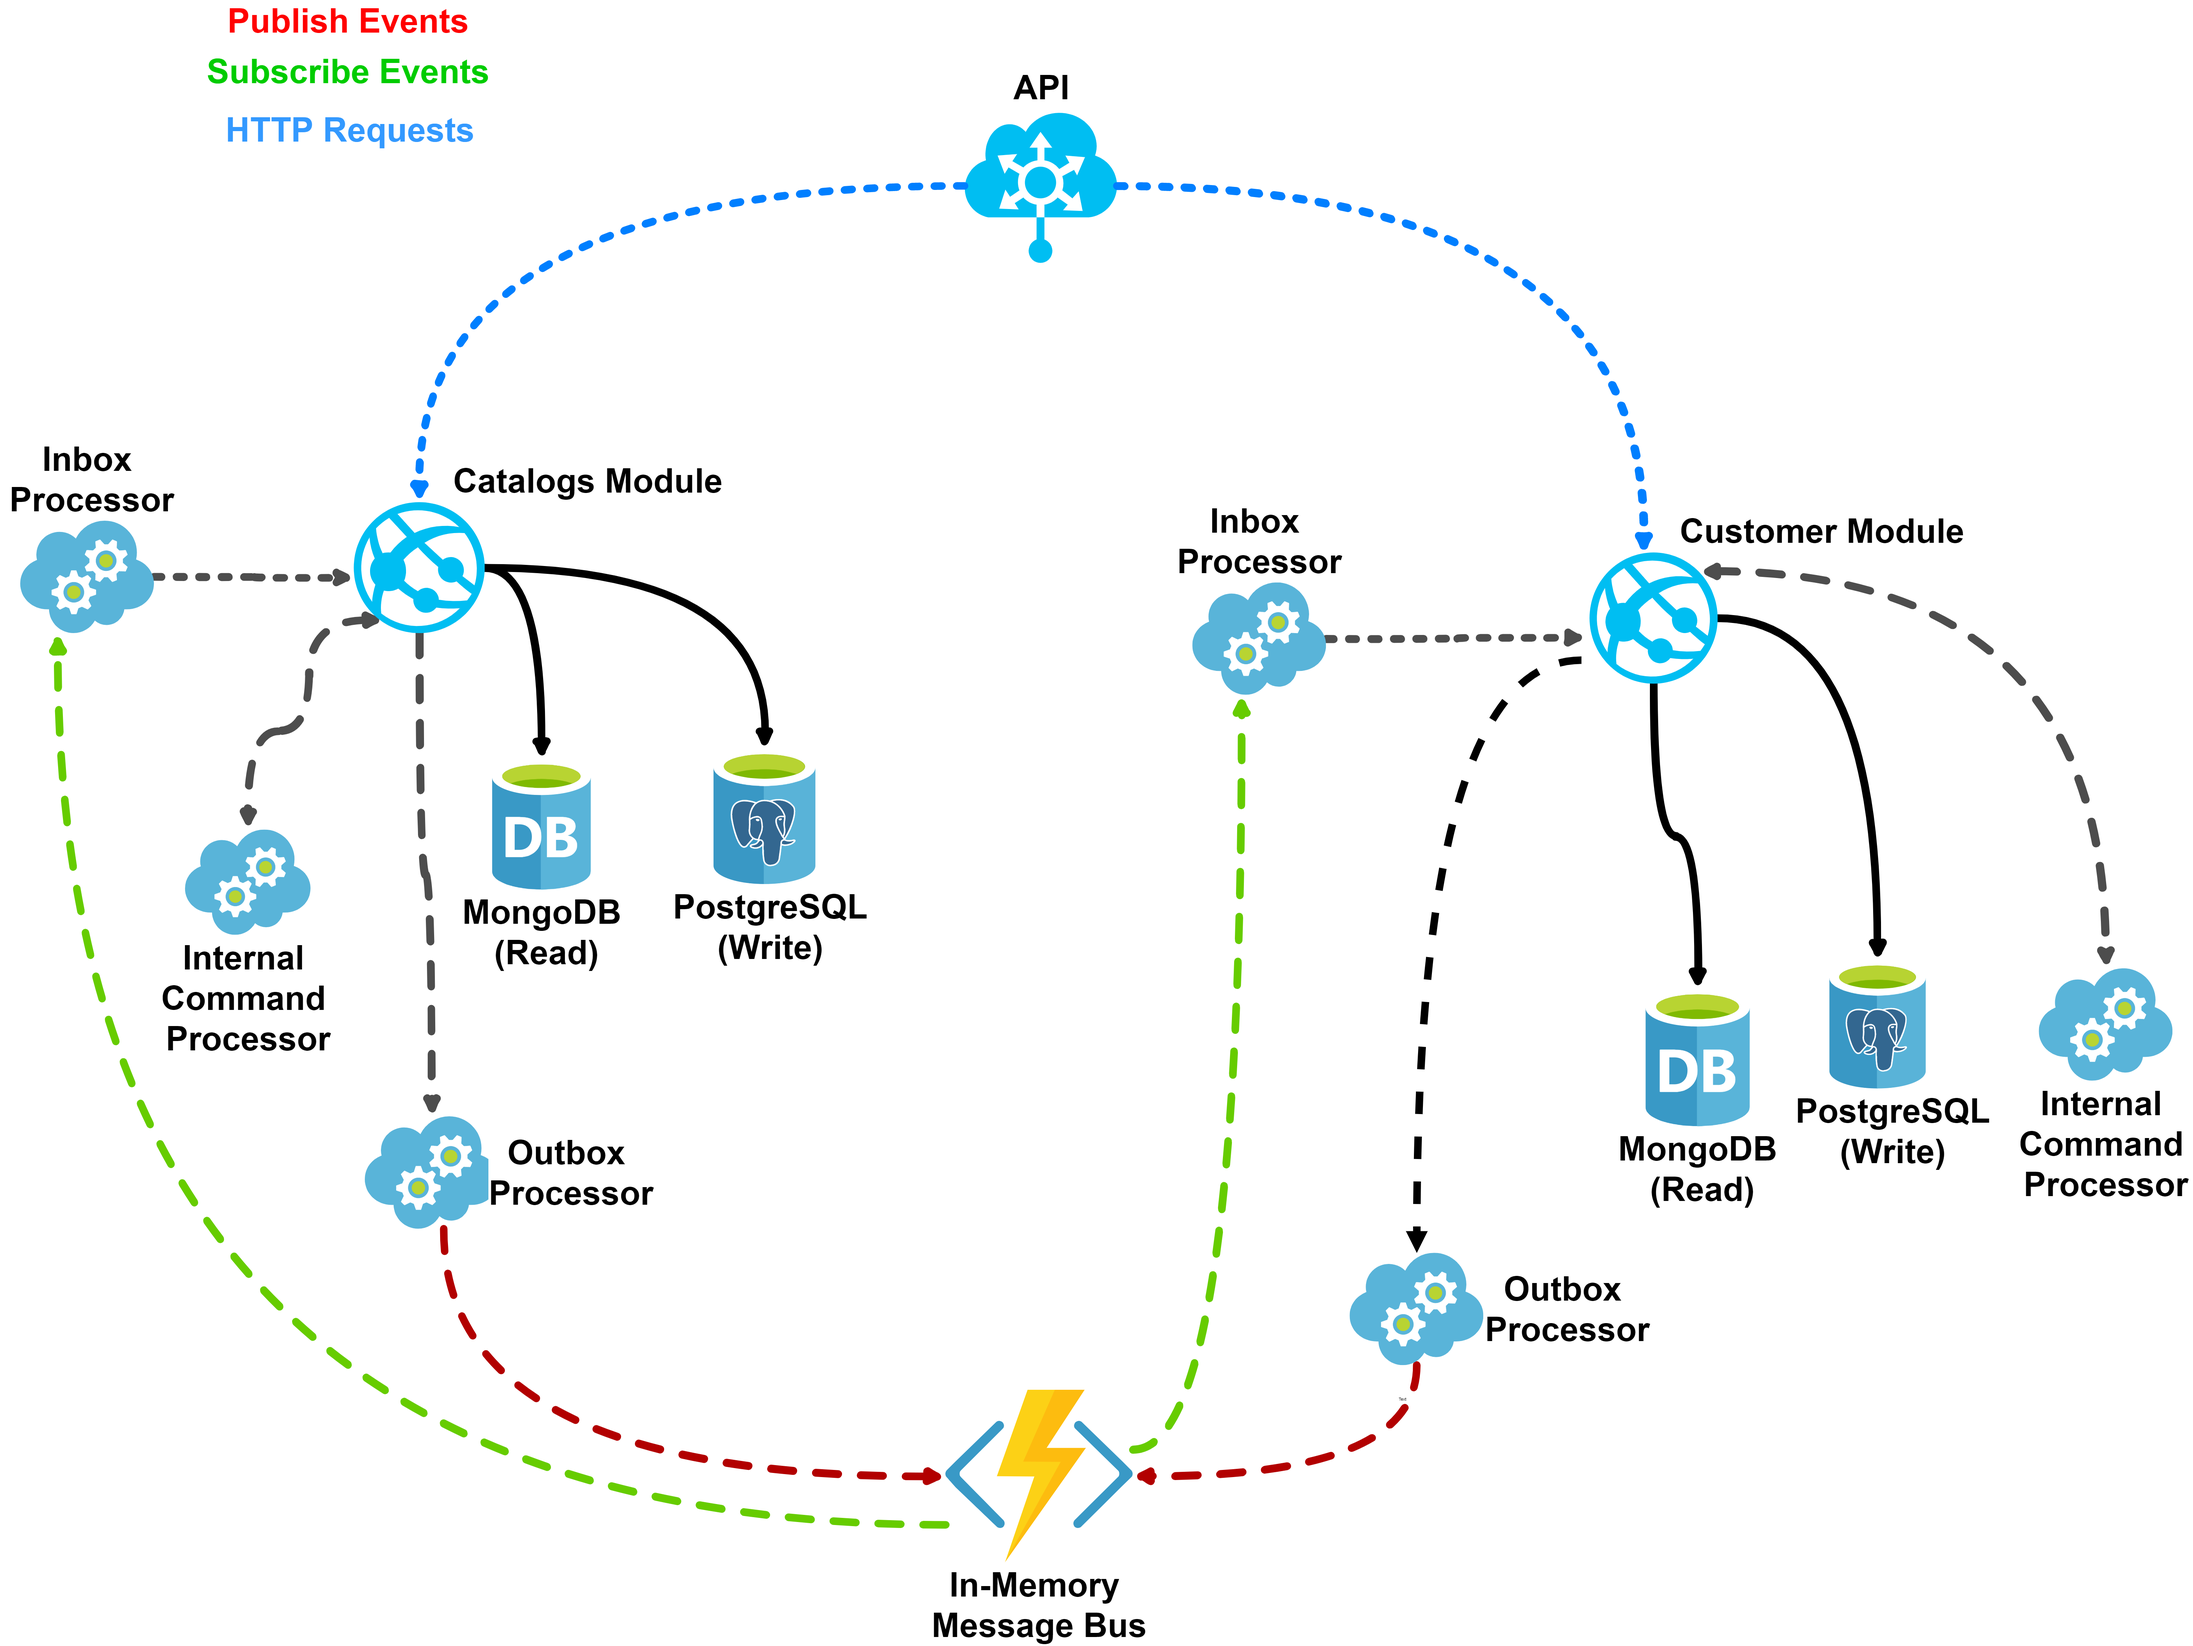
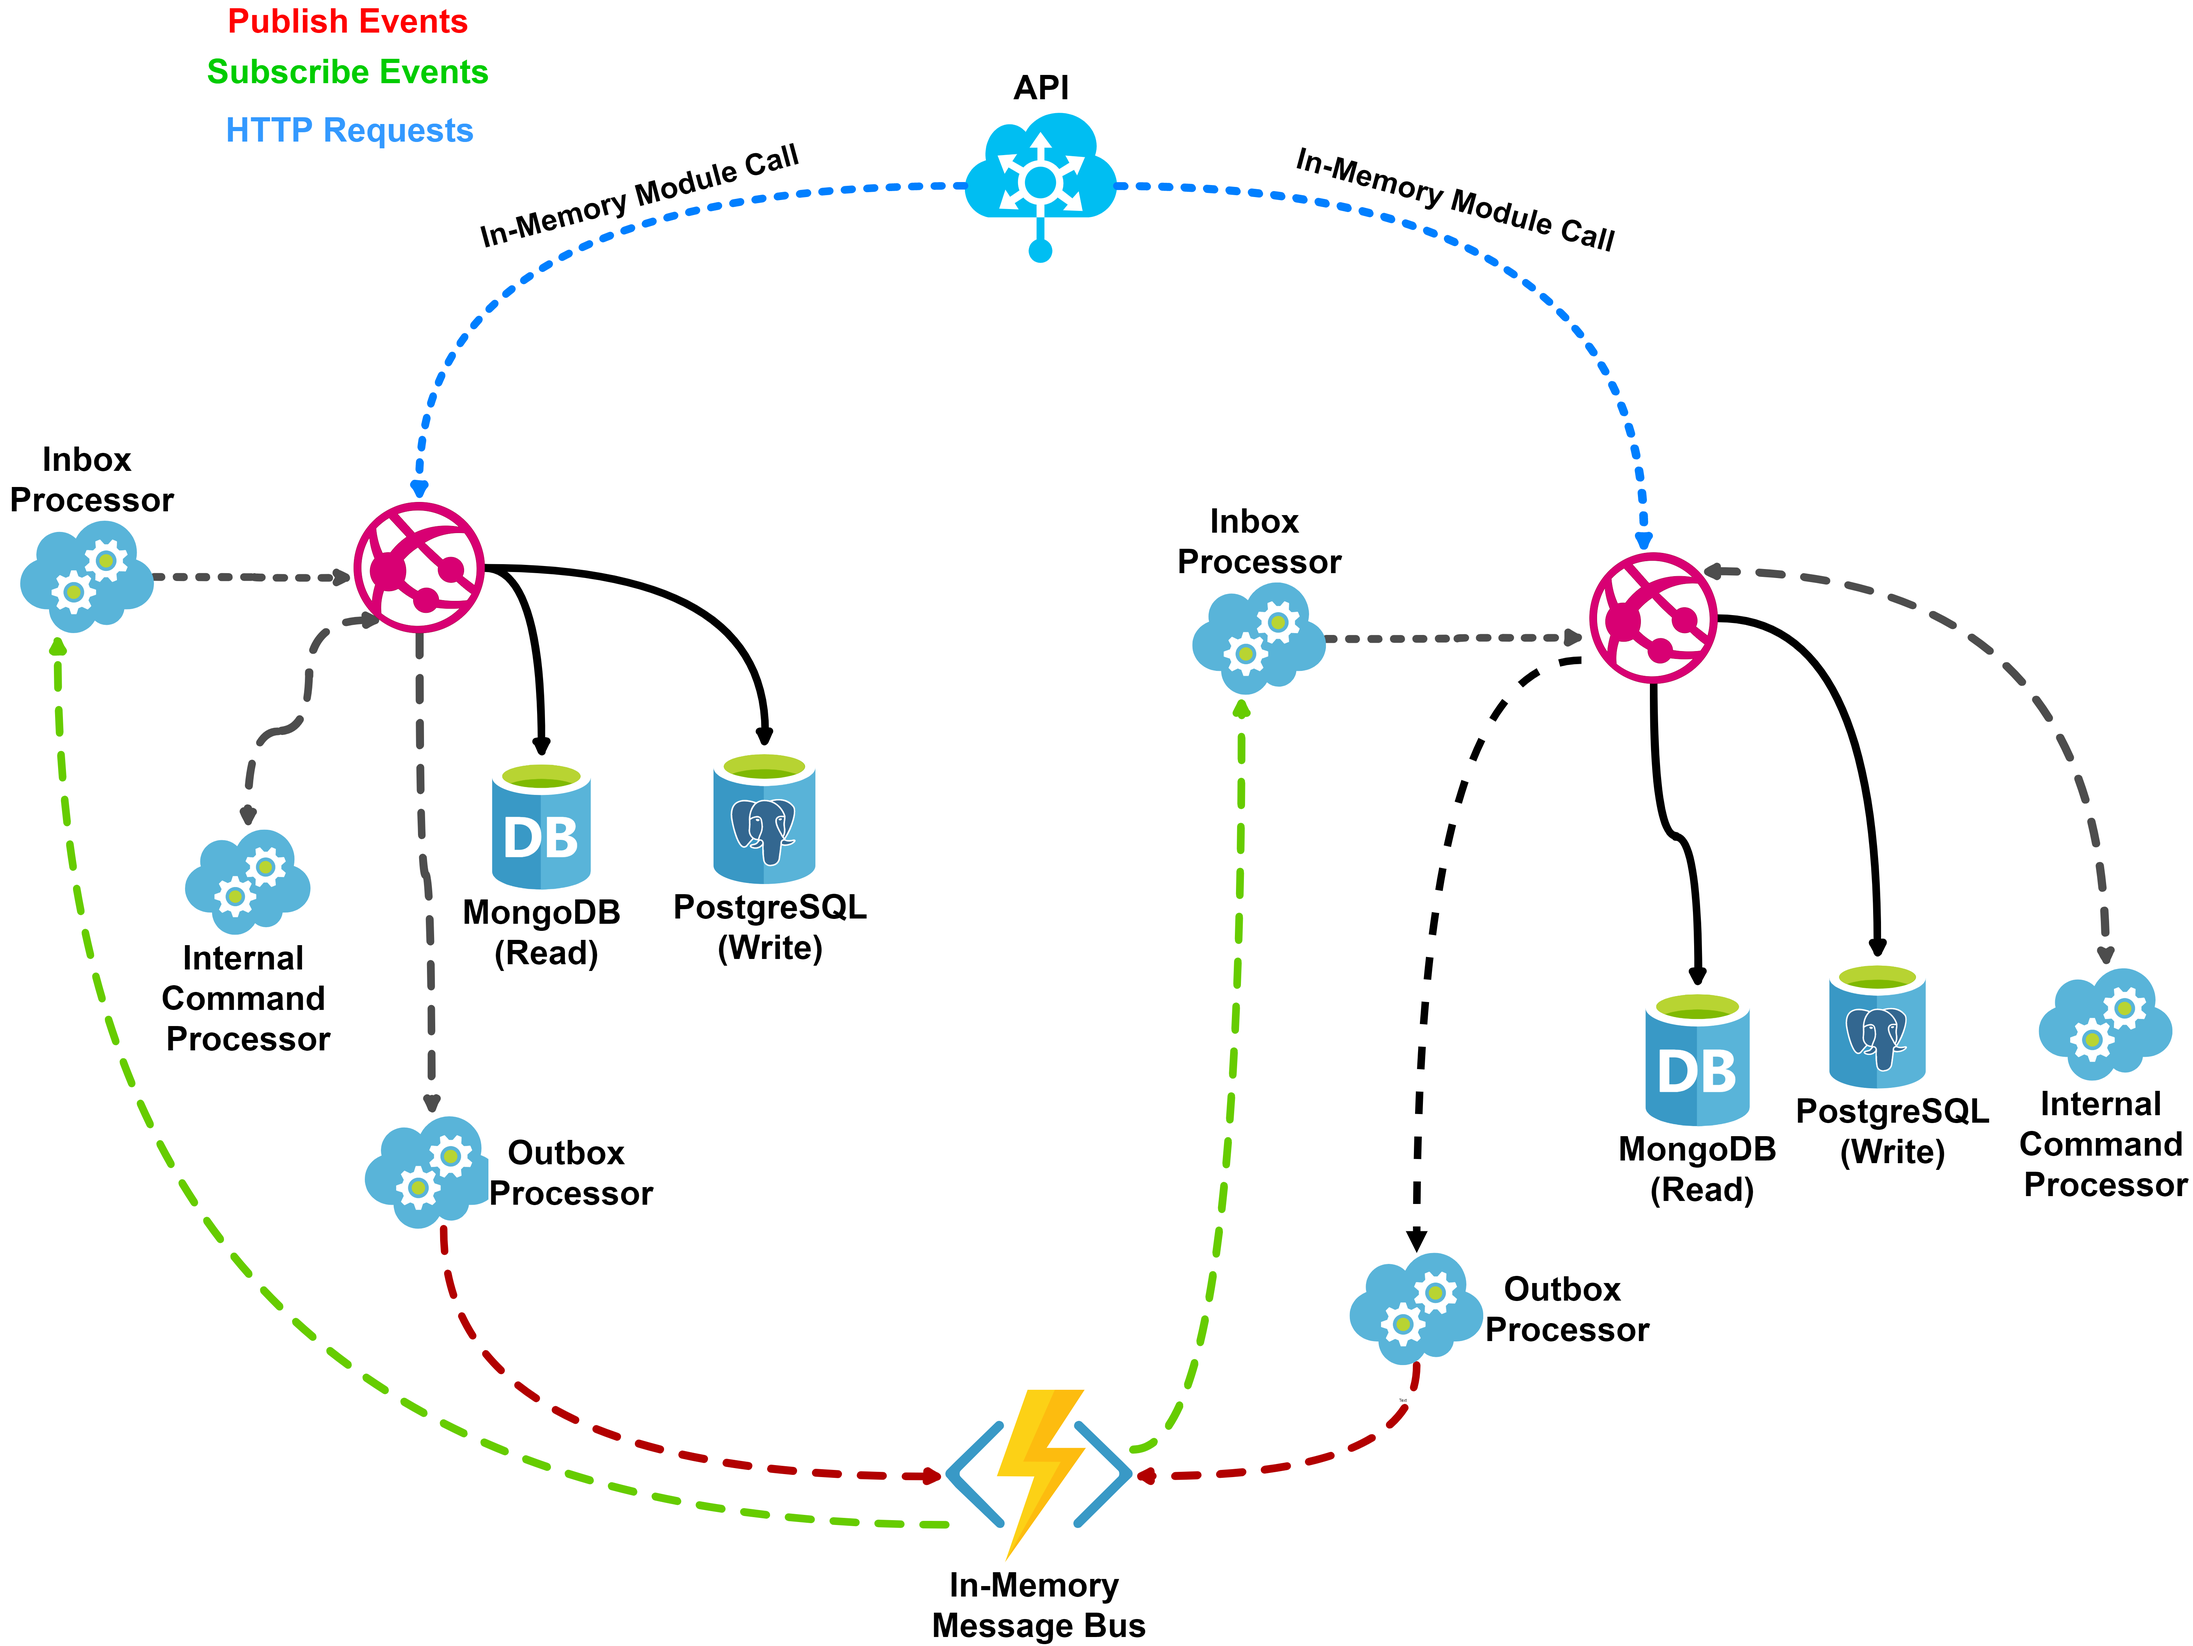
update readme

diff --git a/README.md b/README.md
@@ -83,9 +83,45 @@ Some of this module responsibilities are `Saving orders`, `Saving order drafts`,
 Some of shipping module capabilities are `Register Shipping methods`, `Edit Shipping method`, `Shipment details`, `Shipping settings`
 
 ## Application Architecture
-TODO
 
-![](assets/modular.png)
+The bellow architecture shows that there is one **Public API** (API Project or API Gateway in microservice world) which host all of our internal modules and accessible for the clients and this is done via HTTP request/response. The API project then routes the HTTP request to the corresponding modules. here our API project instead of `Http Calls` or `Network Calls` our modules we have some `In-Memory Calls` for calling our internal modules. In our application this is responsibility of [GatewayProcessor<TModule>](src/BuildingBlocks/BuildingBlocks.Web/GatewayProcessor.cs) interface in minimal apis or [CustomServiceBasedControllerActivator](src/Api/ECommerce.Api/CustomServiceBasedControllerActivator.cs) in normal controllers. In our API there is no code it just hosts our modules and it uses routes which defined in each module in vertical slice architecture for example [CreateProductEndpoint](src/Modules/Catalogs/ECommerce.Modules.Catalogs/Products/Features/CreatingProduct/CreateProductEndpoint.cs) in catalogs module. And when this endpoint reached by user http request from the API, inner this Endpoint we use `[GatewayProcessor<CatalogModuleConfiguration>` for sending a In-Memory request to our module with suing a dedicated `Composition Root`. Behind the scenes this [GatewayProcessor](src/BuildingBlocks/BuildingBlocks.Web/GatewayProcessor.cs#L19) for each module, uses a dedicate `Composition Root` or a `Root Service Provider` and it is responsibility of [CompositionRootRegistry](src/BuildingBlocks/BuildingBlocks.Web/Module/CompositionRootRegistry.cs) for preserving and creating composition root for each modules.
+
+When `In-Memory Call` reached to the internal module, the module should process this request autonomous. Actually in modular monolith each of our modules should treat like a microservice with completely autonomous behavior. For reaching this goal we should use separated [Composition Root](https://freecontent.manning.com/dependency-injection-in-net-2nd-edition-understanding-the-composition-root/) for each module and actually for each composition root we have a separated `Service Provider`. ([read more here...](http://www.kamilgrzybek.com/design/modular-monolith-domain-centric-design/))
+
+> **Composition Root**: With using separate Composition Root for module we can reach to autonomy also a given module can create its own object dependency graph or `Dependency Container`, i.e. it should have its own [Composition Root](https://blog.ploeh.dk/2011/07/28/CompositionRoot/).
+
+Each module is running within its own `Composition Root` or its own `Service Provider` and has directly access to its own local `Database` or `Schema` and its dependencies such as files, Mappers, etc. All these dependencies are only accessible for that module and not other modules. In fact modules are decoupled from each other and are autonomous (Not physically but virtually). also This approach makes migrating to the microservice easier for each module when we need that for example, scaling purpose. In this case we can extract given module to a separated microservice and our modular monolith will communicate with this service maybe with different broker like rabbitmq.
+
+![](./assets/modular.png)
+
+I this architecture modules should talk each other [asynchronously](https://www.kamilgrzybek.com/design/modular-monolith-integration-styles/) most of the cases unless, we need the data immediately for example getting some data and sending to user. For async communications between modules we use a [In-Memory Broker](src/BuildingBlocks/BuildingBlocks.Core/Messaging/Broker/InMemory/InMemoryBus.cs) but we could use other message brokers depending on the needs and for `sync` communication we use REST calls or gRPC calls.
+
+Modules are event based which means they can publish and/or subscribe to any events occurring in the setup. By using this approach for communicating between modules, each module does not need to know about the other modules or handle errors occurred in other modules. 
+
+In this architecture we use [CQRS Pattern](https://www.eventecommerce.com/cqrs-pattern) for separating read and write model beside of other [CQRS Advantages](https://youtu.be/dK4Yb6-LxAk?t=1029). Here for now I don't use [Event Sourcing](https://www.eventecommerce.com/blog/event-sourcing-and-cqrs) for simplicity but I will use it in future for syncing read and write side with sending streams and using [Projection Feature](https://event-driven.io/en/how_to_do_events_projections_with_entity_framework/) for some subscribers to syncing their data through sent streams and creating our [Custom Read Models](https://codeopinion.com/projections-in-event-sourcing-build-any-model-you-want/) in subscribers side.
+
+Here I have a write model that uses a postgres database for handling better `Consistency` and `ACID Transaction` guaranty. beside o this write side I use a read side model that uses MongoDB for better performance of our read side without any joins with suing some nested document in our document also better scalability with some good scaling features of MongoDB.
+
+For syncing our read side and write side we have 2 options with using Event Driven Architecture (without using events streams in event sourcing):
+
+- If our `Read Sides` are in `Same Service`, during saving data in write side I save a [Internal Command](https://github.com/kgrzybek/modular-monolith-with-ddd#38-internal-processing) record in my `Command Processor` storage (like something we do in outbox pattern) and after commenting write side, our `command processor manager` reads unsent commands and sends them to their `Command Handlers` in same corresponding service and this handlers could save their read models in our MongoDb database as a read side.
+
+- If our `Read Sides` are in `Another Services` we publish an integration event (with saving this message in the outbox) after committing our write side and all of our `Subscribers` could get this event and save it in their read models (MongoDB).
+
+All of this is optional in the application and it is possible to only use what that the service needs. Eg. if the service does not want to Use DDD because of business is very simple and it is mostly `CRUD` we can use `Data Centric` Architecture or If our application is not `Task based` instead of CQRS and separating read side and write side again we can just use a simple `CRUD` based application.
+
+Here I used [Outbox](http://www.kamilgrzybek.com/design/the-outbox-pattern/) for [Guaranteed Delivery](https://www.enterpriseintegrationpatterns.com/patterns/messaging/GuaranteedMessaging.html) and can be used as a landing zone for integration events before they are published to the message broker .
+
+[Outbox pattern](https://event-driven.io/en/outbox_inbox_patterns_and_delivery_guarantees_explained/) ensures that a message was sent (e.g. to a queue) successfully at least once. With this pattern, instead of directly publishing a message to the queue, we ecommerce it in the temporary storage (e.g. database table) for preventing missing any message and some retry mechanism in any failure ([At-least-once Delivery](https://www.cloudcomputingpatterns.org/at_least_once_delivery/)). For example When we save data as part of one transaction in our service, we also save messages (Integration Events) that we later want to process in another microservices as part of the same transaction. The list of messages to be processed is called a [StoreMessage](./src/BuildingBlocks/BuildingBlocks.Abstractions/Messaging/PersistMessage/StoreMessage.cs) with [Message Delivery Type](./src/BuildingBlocks/BuildingBlocks.Abstractions/Messaging/PersistMessage/MessageDeliveryType.cs) `Outbox` that are part of our [MessagePersistence](./src/BuildingBlocks/BuildingBlocks.Core/Messaging/MessagePersistence/InMemory/InMemoryMessagePersistenceService.cs) service. This infrastructure also supports `Inbox` Message Delivery Type and `Internal` Message Delivery Type (Internal Processing).
+
+Also we have a background service [MessagePersistenceBackgroundService](./src/BuildingBlocks/BuildingBlocks.Core/Messaging/BackgroundServices/MessagePersistenceBackgroundService.cs)  that periodically checks the our [StoreMessages](./src/BuildingBlocks/BuildingBlocks.Abstractions/Messaging/PersistMessage/StoreMessage.cs) in the database and try to send the messages to the broker with using our [MessagePersistenceService](./src/BuildingBlocks/BuildingBlocks.Core/Messaging/MessagePersistence/InMemory/InMemoryMessagePersistenceService.cs) service. After it gets confirmation of publishing (e.g. ACK from the broker) it marks the message as processed to `avoid resending`.
+However, it is possible that we will not be able to mark the message as processed due to communication error, for example `broker` is `unavailable`. In this case our [MessagePersistenceBackgroundService](./src/BuildingBlocks/BuildingBlocks.Core/Messaging/BackgroundServices/MessagePersistenceBackgroundService.cs) try to resend the messages that not processed and it is actually [ At-Least-Once delivery](http://www.cloudcomputingpatterns.org/at_least_once_delivery/). We can be sure that message will be sent `once`, but can be sent `multiple times` too! That’s why another name for this approach is Once-Or-More delivery. We should remember this and try to design receivers of our messages as [Idempotents](https://www.enterpriseintegrationpatterns.com/patterns/messaging/IdempotentReceiver.html), which means:
+
+> In Messaging this concepts translates into a message that has the same effect whether it is received once or multiple times. This means that a message can safely be resent without causing any problems even if the receiver receives duplicates of the same message.
+
+For handling [Idempotency](https://www.enterpriseintegrationpatterns.com/patterns/messaging/IdempotentReceiver.html) and [Exactly-once Delivery](https://www.cloudcomputingpatterns.org/exactly_once_delivery/) in receiver side, we could use [Inbox Pattern](https://event-driven.io/en/outbox_inbox_patterns_and_delivery_guarantees_explained/).
+
+This pattern is similar to Outbox Pattern. It’s used to handle incoming messages (e.g. from a queue) for `unique processing` of `a single message` only `once` (even with executing multiple time). Accordingly, we have a table in which we’re storing incoming messages. Contrary to outbox pattern, we first save the messages in the database, then we’re returning ACK to queue. If save succeeded, but we didn’t return ACK to queue, then delivery will be retried. That’s why we have at-least-once delivery again. After that, an `inbox background process` runs and will process the inbox messages that not processed yet. also we can prevent executing a message with specific `MessgaeId`multiple times. after executing our inbox message for example with calling our subscribed event handlers we send a ACK to the queue when they succeeded. (Inbox part of the system is in progress, I will cover this part soon as possible)
 
 ## Application Structure
 
